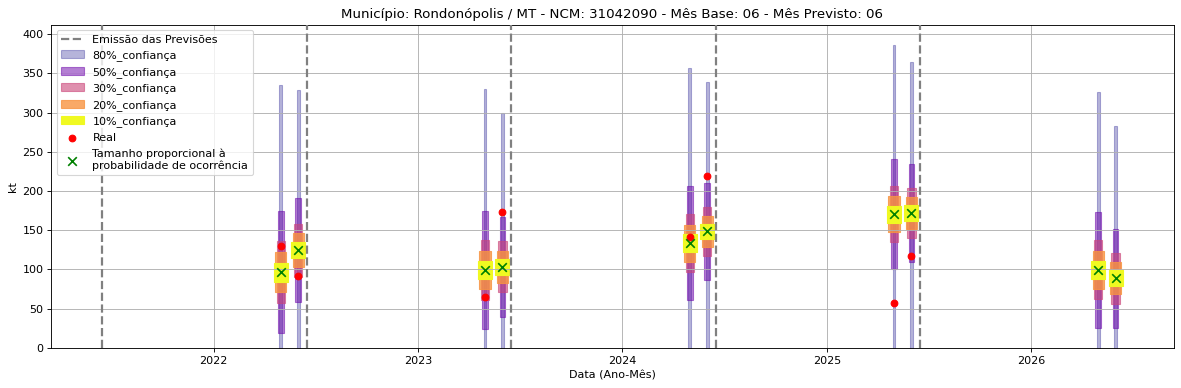
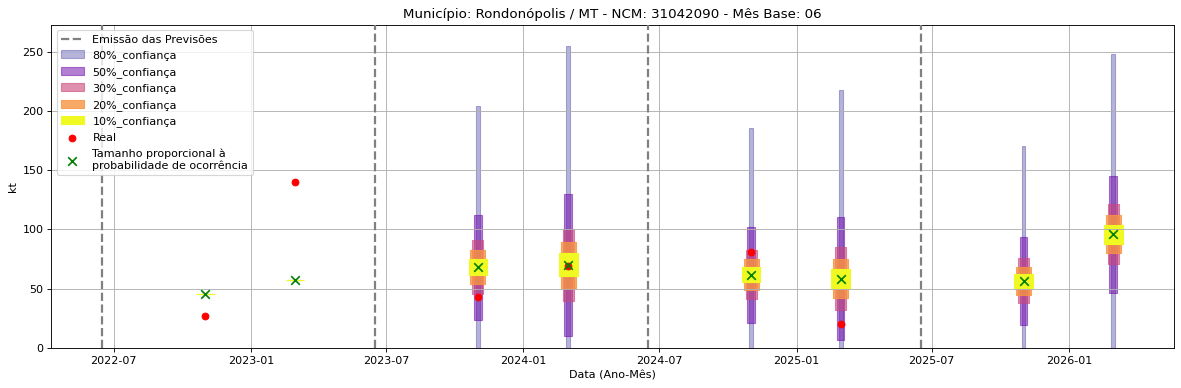
Atualização automática em lote

diff --git a/README.md b/README.md
@@ -15,6 +15,4 @@
 **[Home](https://quantimportbrazil.github.io/Sobre/)** | **[Selecionar Estado (UF)](https://quantimportbrazil.github.io/Unidades_Federativas/)**
 
 
-![Gráfico de Previsão](31021010.png)
-
-![Gráfico de Previsão](31022100.png)
+![Gráfico de Previsão](31042090.png)
